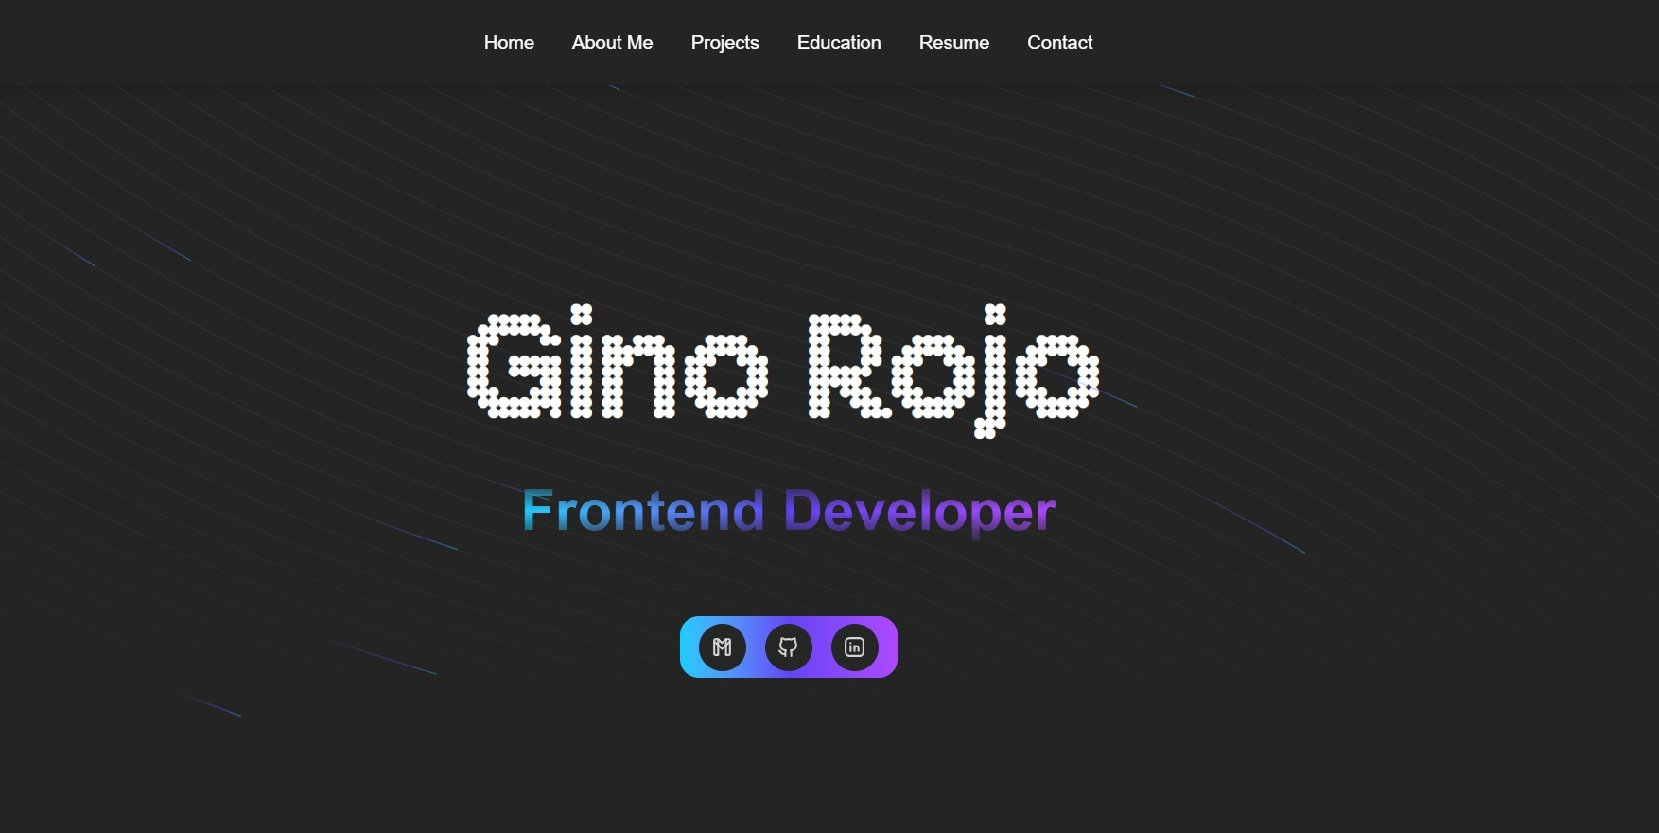
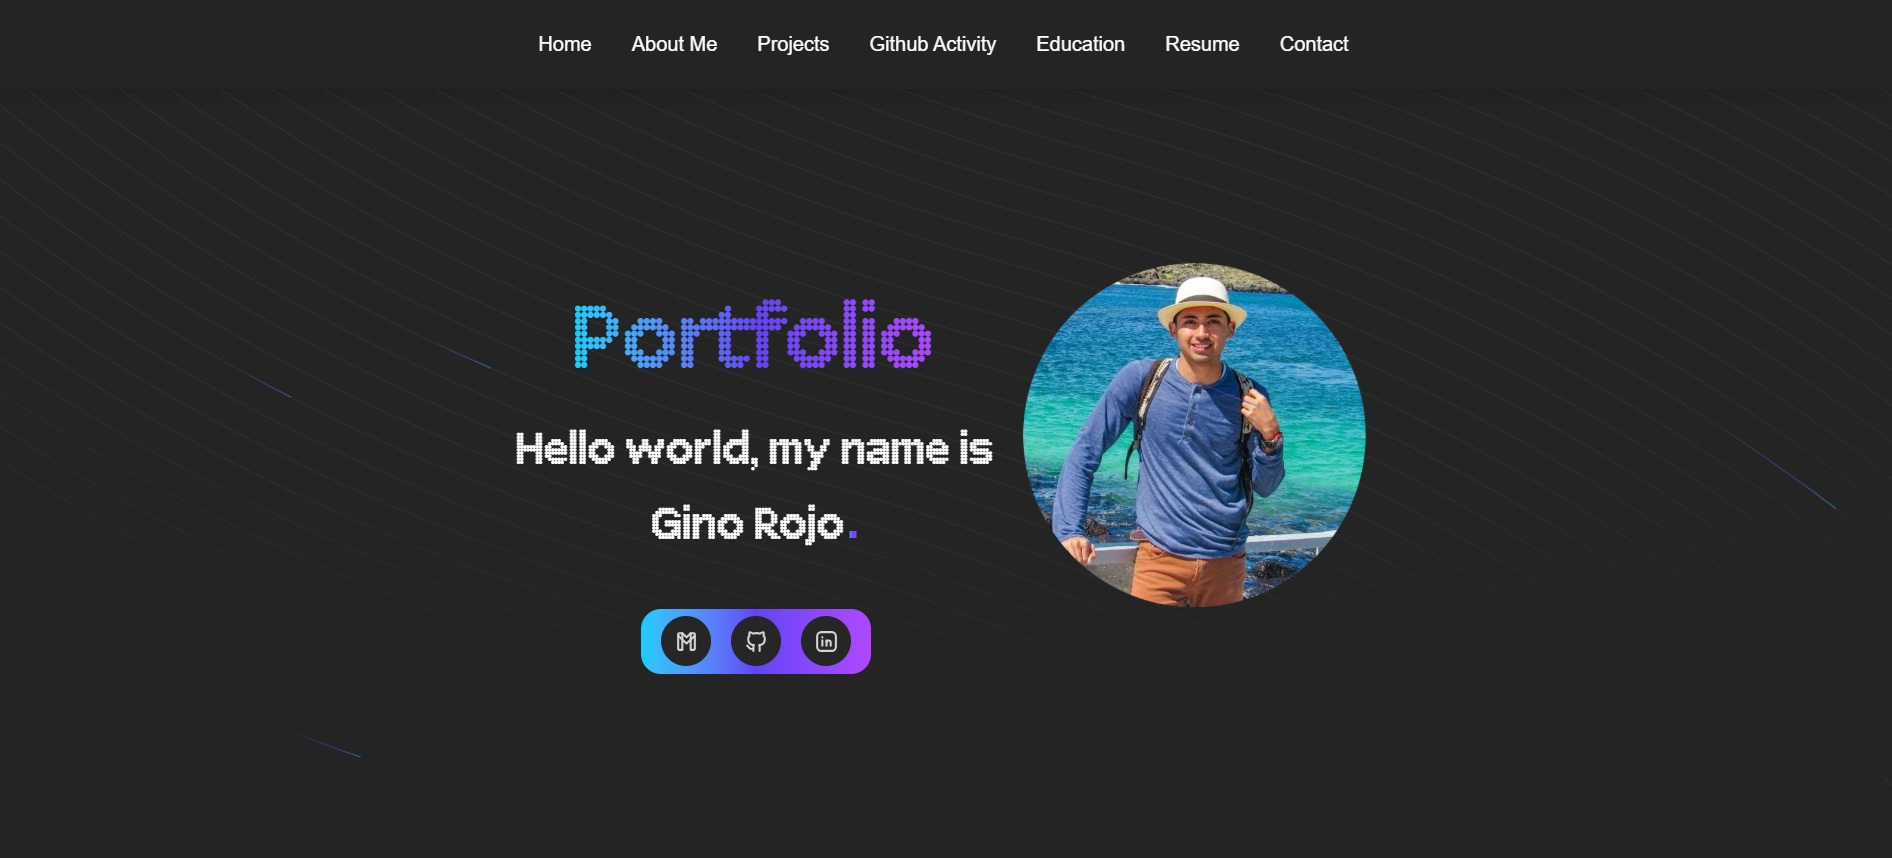
cambios

Changed region(s): [[0.2459, 0.2809, 0.7378, 0.7179], [0.3382, 0.6867, 0.5533, 0.8427], [0.2767, 0.0312, 0.7071, 0.0624]]

diff --git a/src/components/Header.jsx b/src/components/Header.jsx
@@ -4,51 +4,74 @@ import { FloatingDock } from "./ui/floating-dock";
 import {
   IconBrandGithub,
   IconBrandLinkedin,
-  IconBrandGmail
+  IconBrandGmail,
 } from "@tabler/icons-react";
-import {TextRevealCard} from './ui/text-reveal-card.jsx'
+import { TextRevealCard } from "./ui/text-reveal-card.jsx";
 import { title } from "motion/react-client";
 import Navbar from "./Navbar.jsx";
 
-
 export default function Header() {
   const links = [
-     
     {
       title: "Contact",
-      icon: <IconBrandGmail className="h-full w-full text-neutral-500 dark:text-neutral-300" />,
+      icon: (
+        <IconBrandGmail className="h-full w-full text-neutral-500 dark:text-neutral-300" />
+      ),
       href: "#contact",
     },
     {
       title: "GitHub",
-      icon: <IconBrandGithub className="h-full w-full text-neutral-500 dark:text-neutral-300" />,
+      icon: (
+        <IconBrandGithub className="h-full w-full text-neutral-500 dark:text-neutral-300" />
+      ),
       href: "https://github.com/ginorojo",
     },
-   {
-    title: "LinkedIn",
-    icon: <IconBrandLinkedin className="h-full w-full text-neutral-500 dark:text-neutral-300" />,
-    href: "https://www.linkedin.com/in/gino-rojo-jorquera-72aba1148/",
-   }
+    {
+      title: "LinkedIn",
+      icon: (
+        <IconBrandLinkedin className="h-full w-full text-neutral-500 dark:text-neutral-300" />
+      ),
+      href: "https://www.linkedin.com/in/gino-rojo-jorquera-72aba1148/",
+    },
   ];
 
   return (
     <div className="font-sans antialiased" id="home">
-     
       <BackgroundBeams />
       <div className="flex flex-col items-center justify-center md:h-screen h-[500px] w-full] text-white gap-4">
-      <Navbar />
-        
-        <h1 className="font-wide md:text-[140px] text-7xl ">Gino Rojo</h1>
-        <TextRevealCard
+        <Navbar />
+
+        <div className="flex flex-col gap-5 md:flex-row md:items-start items-center justify-center">
+          <div className="flex flex-col justify-center items-center relative">
+            <h1 className="font-wide md:text-[80px] text-[50px] pt-20 md:pt-0 bg-gradient-to-r from-[#18CCFC] via-[#6344F5] to-[#AE48FF] bg-clip-text text-transparent hover:bg-gradient-to-l transition-colors">
+              Portfolio
+            </h1>
+
+            <h4 className="font-wide md:text-[40px]  text-[25px] text-center ">
+              Hello world, my name is{" "}
+            </h4>
+
+            <h4 className="font-wide text-[40px] flex ">
+              Gino Rojo <p className="bg-gradient-to-r from-[#18CCFC] via-[#6344F5] to-[#AE48FF] bg-clip-text text-transparent hover:bg-gradient-to-l transition-colors font-bold">.</p>
+            </h4>
+
+            <FloatingDock
+              items={links}
+              desktopClassName="absolute top-130  md:top-70 left-1/2 -translate-x-1/2 z-50 "
+            />
+          </div>
+
+          <img
+            className="w-[200px] h-[200px] md:w-[280px] md:h-[280px] "
+            src="/redonda.webp"
+            alt=""
+          />
+        </div>
+        {/* <TextRevealCard
           className="text-lg flex items-center justify-center"
           text="Frontend Developer"
           revealText="Frontend Developer"
-        />
-        
-        <FloatingDock
-        items={links}
-        desktopClassName="absolute top-90  md:top-130 left-1/2 -translate-x-1/2 z-50 "
-      />
+        /> */}
       </div>
     </div>
   );

diff --git a/src/components/ui/card-hover-effect.tsx b/src/components/ui/card-hover-effect.tsx
@@ -35,7 +35,7 @@ export default function HoverEffectManual() {
           <Card>
             {index === 0 ? (
               <>
-                <h4 className="text-white font-bold text-lg mb-4">Brigham Young University</h4>
+                <h3 className="text-white font-bold text-lg mb-4">Brigham Young University</h3>
                 <p className="text-sm text-neutral-100 mb-2 font-semibold">BA Software development:</p>
                 <p className="text-sm text-neutral-300"> April 2024 - in progress</p>
                 <p className="text-sm text-neutral-100 mt-4 mb-2 font-semibold">Certificate in computer and web development:</p>
@@ -43,7 +43,7 @@ export default function HoverEffectManual() {
               </>
             ) : (
               <>
-                <h4 className="text-white font-bold text-lg mb-4">Funval Internacional</h4>
+                <h3 className="text-white font-bold text-lg mb-4">Funval Internacional</h3>
                 <p className="text-sm text-neutral-100 mb-2 font-semibold">Certificate in Frontend Development:</p>
                 <p className="text-sm text-neutral-300"> April 2025 - July 2025</p>
               </>

diff --git a/src/components/Aboutme.jsx b/src/components/Aboutme.jsx
@@ -9,9 +9,8 @@ import {
 export default function TextRevealCardPreview() {
   return (
     
-      <div className="flex flex-col items-center justify-center gap-2 md:flex-row ">
-        <img className="w-[50%] md:w-[30%] lg:w-[15%]" src="/redonda.webp" alt="" />
-        <TextRevealCardDescription className="text-center md:text-left w-[100%] md:w-[40%] flex justify-center items-center  text-[16px]  md:text-lg text-neutral-300">
+      <div className="flex justify-center">
+        <TextRevealCardDescription className=" md:text-center w-[100%] md:w-[40%] flex justify-center items-center  text-[16px]  md:text-lg text-neutral-300">
         Hi, I am Gino Rojo, from La Serena Chile, I am a front-End Web Developer with skills to create modern, responsive, and
         functional web interfaces. I optimize structure, style, and logic to
         improve user experience. Known for logical thinking, attention to

diff --git a/src/components/Carrusel.jsx b/src/components/Carrusel.jsx
@@ -15,7 +15,7 @@ export default function TechCarousel() {
   const duplicatedTechs = [...techs, ...techs]; // Loop visual
 
   return (
-    <div className="w-full flex justify-center items-center py-10 bg-transparent">
+    <div className="w-full flex justify-center items-center md:py-10 pt-40 bg-transparent">
       <div className="relative w-[100%] md:w-[80%] max-w-5xl overflow-hidden">
         <div
           className="flex md:gap-10 gap-15 animate-scroll whitespace-nowrap"

diff --git a/src/index.css b/src/index.css
@@ -8,11 +8,11 @@
   font-weight: regular;
 } */
 
-body, p, a, li, span, button,h2, h3, h4, h5, h6, div,ul{
+body, p, a, li,  button,h2, h3, h4, h5, h6, div,ul{
   font-family: 'Hove', sans-serif;
 }
 
-h1 {
+h1,h4 {
   font-family: 'Array', sans-serif;
   font-weight: wide;
 }
